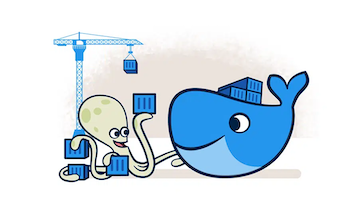
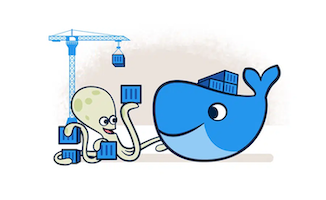
update

diff --git a/doc/[Book] 01_Docker_Overview.md b/doc/[Book] 01_Docker_Overview.md
@@ -33,7 +33,7 @@ footer: Samsung SDS
 **컨테이너**는 **가상화** 기술의 하나로 Host머신 또는 다른 컨테이너와 **분리된 환경**에서 애플리케이션을 실행시킵니다.
 컨테이너는 **소형**이며 **빠르고** **이식성**이 뛰어납니다.
 
-![h:380 center](./img/conatiner.png)
+![h:400 center](./img/conatiner.png)
 
 ---
 
